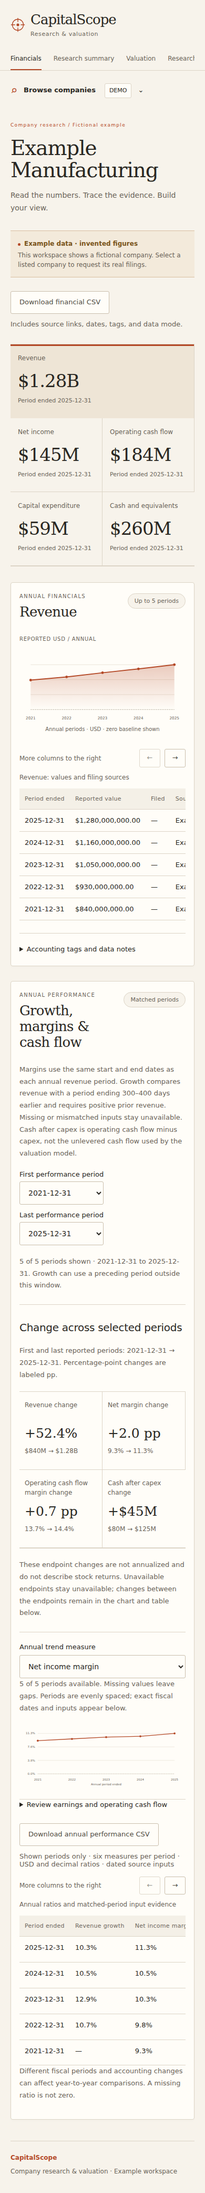
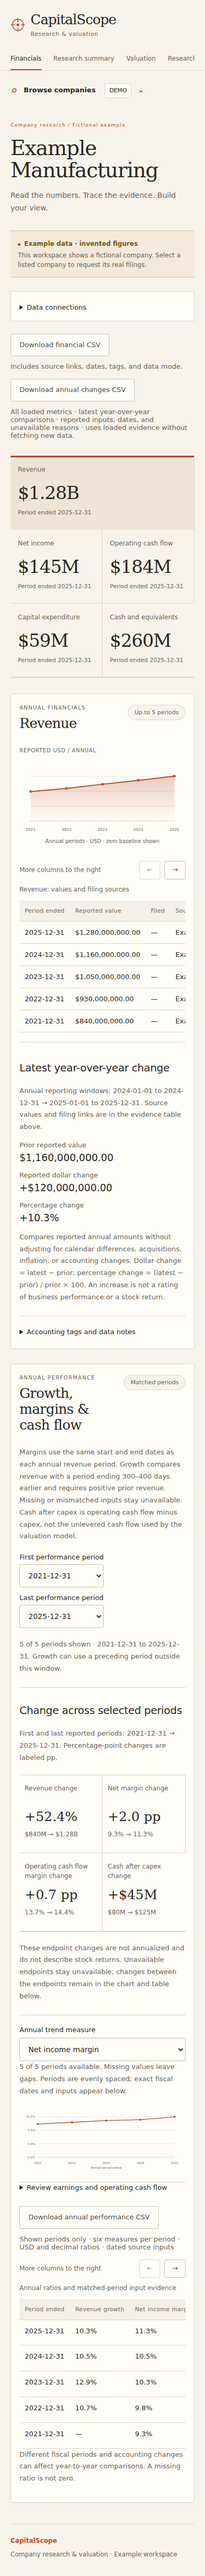
I refresh my recruiter demo and packaged-app screenshots

Changed region(s): [[0.0308, 0.0, 0.9538, 0.9928], [0.9231, 0.1551, 0.9538, 0.1861], [0.8308, 0.3102, 0.8615, 0.3413]]

diff --git a/docs/demo-walkthrough.md b/docs/demo-walkthrough.md
@@ -13,15 +13,17 @@ java -jar backend/target/capitalscope-0.1.0.jar
 
 I open http://localhost:8080. I need no live credentials for the fictional workspace. I keep `./data` if I want to retain saved work between launches. I use the jar for my local demo and verify Docker/Compose in CI; [my release notes](portfolio-release.md) describe the verified routes and remaining live-provider checks.
 
-## My short presentation route
+## My five-minute presentation route
 
-1. I show the example label, annual figures, and dated input evidence in Financials.
-2. I open Valuation and calculate the $90-per-share case below, then change an assumption to clear the previous result.
-3. I open the fictional peer comparison, switch the chart measure, and review the companies' fiscal periods.
-4. I show a saved watchlist thesis and its research summary, then download research-evidence JSON or use Print. I explain that sections retain different source dates.
-5. I open a prepared fictional practice portfolio and distinguish recorded fills, available cash, and dated holdings marks. I show Prices as a raw-price analysis view.
+| Time | What I show | What I explain |
+| --- | --- | --- |
+| 0:00–0:45 | I open the fictional Financials workspace and its exact annual evidence. | I keep reported facts, source dates, and missing values visible. These demo figures are invented. |
+| 0:45–2:00 | I calculate the $90 valuation below and inspect its sensitivity range. I select a sensitivity cell, then explicitly recalculate. | I can trace an estimate back to my assumptions. Changing inputs clears the earlier result; a model estimate is not a market forecast. |
+| 2:00–2:45 | I open prepared research notes, a saved thesis, and revision history. | I separate browser-only drafts from shared saved records and retain conflicts rather than silently replacing newer work. |
+| 2:45–4:15 | I compare prepared downside/upside stress snapshots, filter their assumptions, and download the selected comparison CSV. | I preserve each saved baseline, keep cash fixed, and export complete evidence even when screen filters hide rows. |
+| 4:15–5:00 | I point to the repository architecture and passing PR checks. | I connect React/TypeScript, Java APIs, JDBC/Flyway persistence, and PostgreSQL/container checks. I explain the shared-workspace and live-provider limits. |
 
-I prepare the saved thesis, valuation case, and example portfolio before presenting if I want to keep the live walkthrough to about five minutes. I use the detailed flows below for a longer discussion.
+I prepare the valuation, thesis, and practice portfolio before presenting. I use the detailed flows below for questions about prices, allocations, data sources, or recovery. I keep the main route focused on evidence, assumptions, persistence, and a reproducible export.
 
 ## I inspect financial evidence
 
@@ -44,7 +46,9 @@ I open **Valuation** and enter this small calculation:
 
 I keep the five-year projection horizon and click **Calculate valuation**. I expect a modeled value of **$90 per share** with these inputs. This case is also covered by the packaged integration test.
 
-I inspect the sensitivity table, save a named case, reload it, and change an assumption. I show that changing inputs clears results that belong to the previous calculation. I explain that the calculator reflects my assumptions; it does not produce an analyst forecast.
+I inspect the sensitivity range and table, save a named case, and reload it. I can select a valid sensitivity cell to copy its WACC and terminal-growth assumptions into the form; I explicitly calculate again before saving a new result. I show that changing inputs clears results that belong to the previous calculation. I explain that the calculator reflects my assumptions; it does not produce an analyst forecast.
+
+I keep a [captured valuation screen](valuation-review.png) for a quick visual reference.
 
 ## I build a practice portfolio
 
@@ -55,6 +59,16 @@ With the current invented close of $21.60, I expect $800 cash, $216 in marked ho
 I enter target allocations of **40% Cash / 60% DEMO**, calculate the dollar changes, and save that mix. I calculate and save **100% Cash / 0% DEMO** as a second proposal. I select both saved mixes to compare them at one current valuation.
 
 I apply an explicit price shock, inspect each mix's own fixed cash reserve, and download the comparison evidence. I show that calculating or loading targets records no trades. I treat share estimates as optional and check their basis before using them.
+
+## I compare saved price-shock cases
+
+I use the $1,000 practice portfolio above, with 10 DEMO shares bought at $20 and no fee. At the invented $21.60 mark, I have $800 cash and $216 in holdings. I run **−20%** and save **My downside**, then run **+20%** and save **My upside**, without entering any trades between those saves.
+
+I expect saved totals of **$972.80** and **$1,059.20**. With the downside as my reference, the upside differs by **$86.40**. I explain that both use the same saved holdings and price evidence. If I change holdings or price evidence before saving a later case, I expect reference differences to become unavailable rather than treating different baselines as comparable performance.
+
+I select both cases, use **Show differing shock assumptions only**, and download **stress comparison CSV**. I show that the export retains unchanged assumptions, both saved baselines, original holding evidence, and the chosen reference. Missing differences stay blank with a reason. I can search the saved-case list or show selected cases without losing hidden comparison selections. Reloading preserves my filters and name draft while reconciling deleted cases.
+
+I keep a [captured saved stress comparison](stress-comparison.png) for this part of the demo. These are hypothetical price shocks, not return forecasts, probabilities, or broker orders.
 
 ## I inspect price declines
 
@@ -86,3 +100,17 @@ I cannot guarantee that every catalog company has usable filings or overlapping 
 | Delivery | Feature PRs, focused local checks, frontend CI, PostgreSQL checks, and packaged integration tests |
 
 I describe the app as a shared research and simulation workspace. I have not implemented private user accounts or broker execution. I keep financial facts separate from user assumptions and treat restated SEC history as unsuitable for point-in-time backtesting. I can explain these boundaries without claiming that the app is a trading platform.
+
+## I recapture the demo screens
+
+I build a fresh jar first with the launch instructions above. With the matching Playwright browser installed, I run:
+
+```bash
+npm run demo:capture --prefix frontend
+```
+
+I install the browser, if needed, from `frontend` with `npx playwright install --only-shell chromium`. On a minimal Linux host I use Playwright’s ordinary `--with-deps` installation; the GitHub Actions dependency script is intentionally CI-only.
+
+I start the packaged app on an available local port with an isolated in-memory H2 database and both live providers disabled. I use actual app APIs and UI interactions, without stubbing financial responses. I check the $90 valuation, the $86.40 saved-case difference, mobile page width, and comparison download before finishing. I close the browser and server afterward.
+
+I overwrite four documentation images: [desktop financials](research-dashboard.png), [mobile financials](research-dashboard-mobile.png), [valuation review](valuation-review.png), and [stress comparison](stress-comparison.png). I do not write to an existing local database or need provider credentials for this capture. These screenshots verify the fictional demo flow, not live SEC or market-data coverage.

diff --git a/README.md b/README.md
@@ -8,7 +8,7 @@ I gave CapitalScope a warm ivory and copper identity, with serif company titles,
 
 ![My company research workspace with explicitly labeled example figures](docs/research-dashboard.png)
 
-I also keep a [mobile screenshot](docs/research-dashboard-mobile.png) of the same example workspace.
+I also keep a [mobile screenshot](docs/research-dashboard-mobile.png), a [valuation review](docs/valuation-review.png), and a [saved stress comparison](docs/stress-comparison.png), captured from the packaged app with labeled fictional data.
 
 I use this [short demo walkthrough](docs/demo-walkthrough.md) to show the research, valuation, portfolio, and price-analysis flows. It includes a key-free route, a small calculation I can check, and the limits I explain when presenting the project.
 
